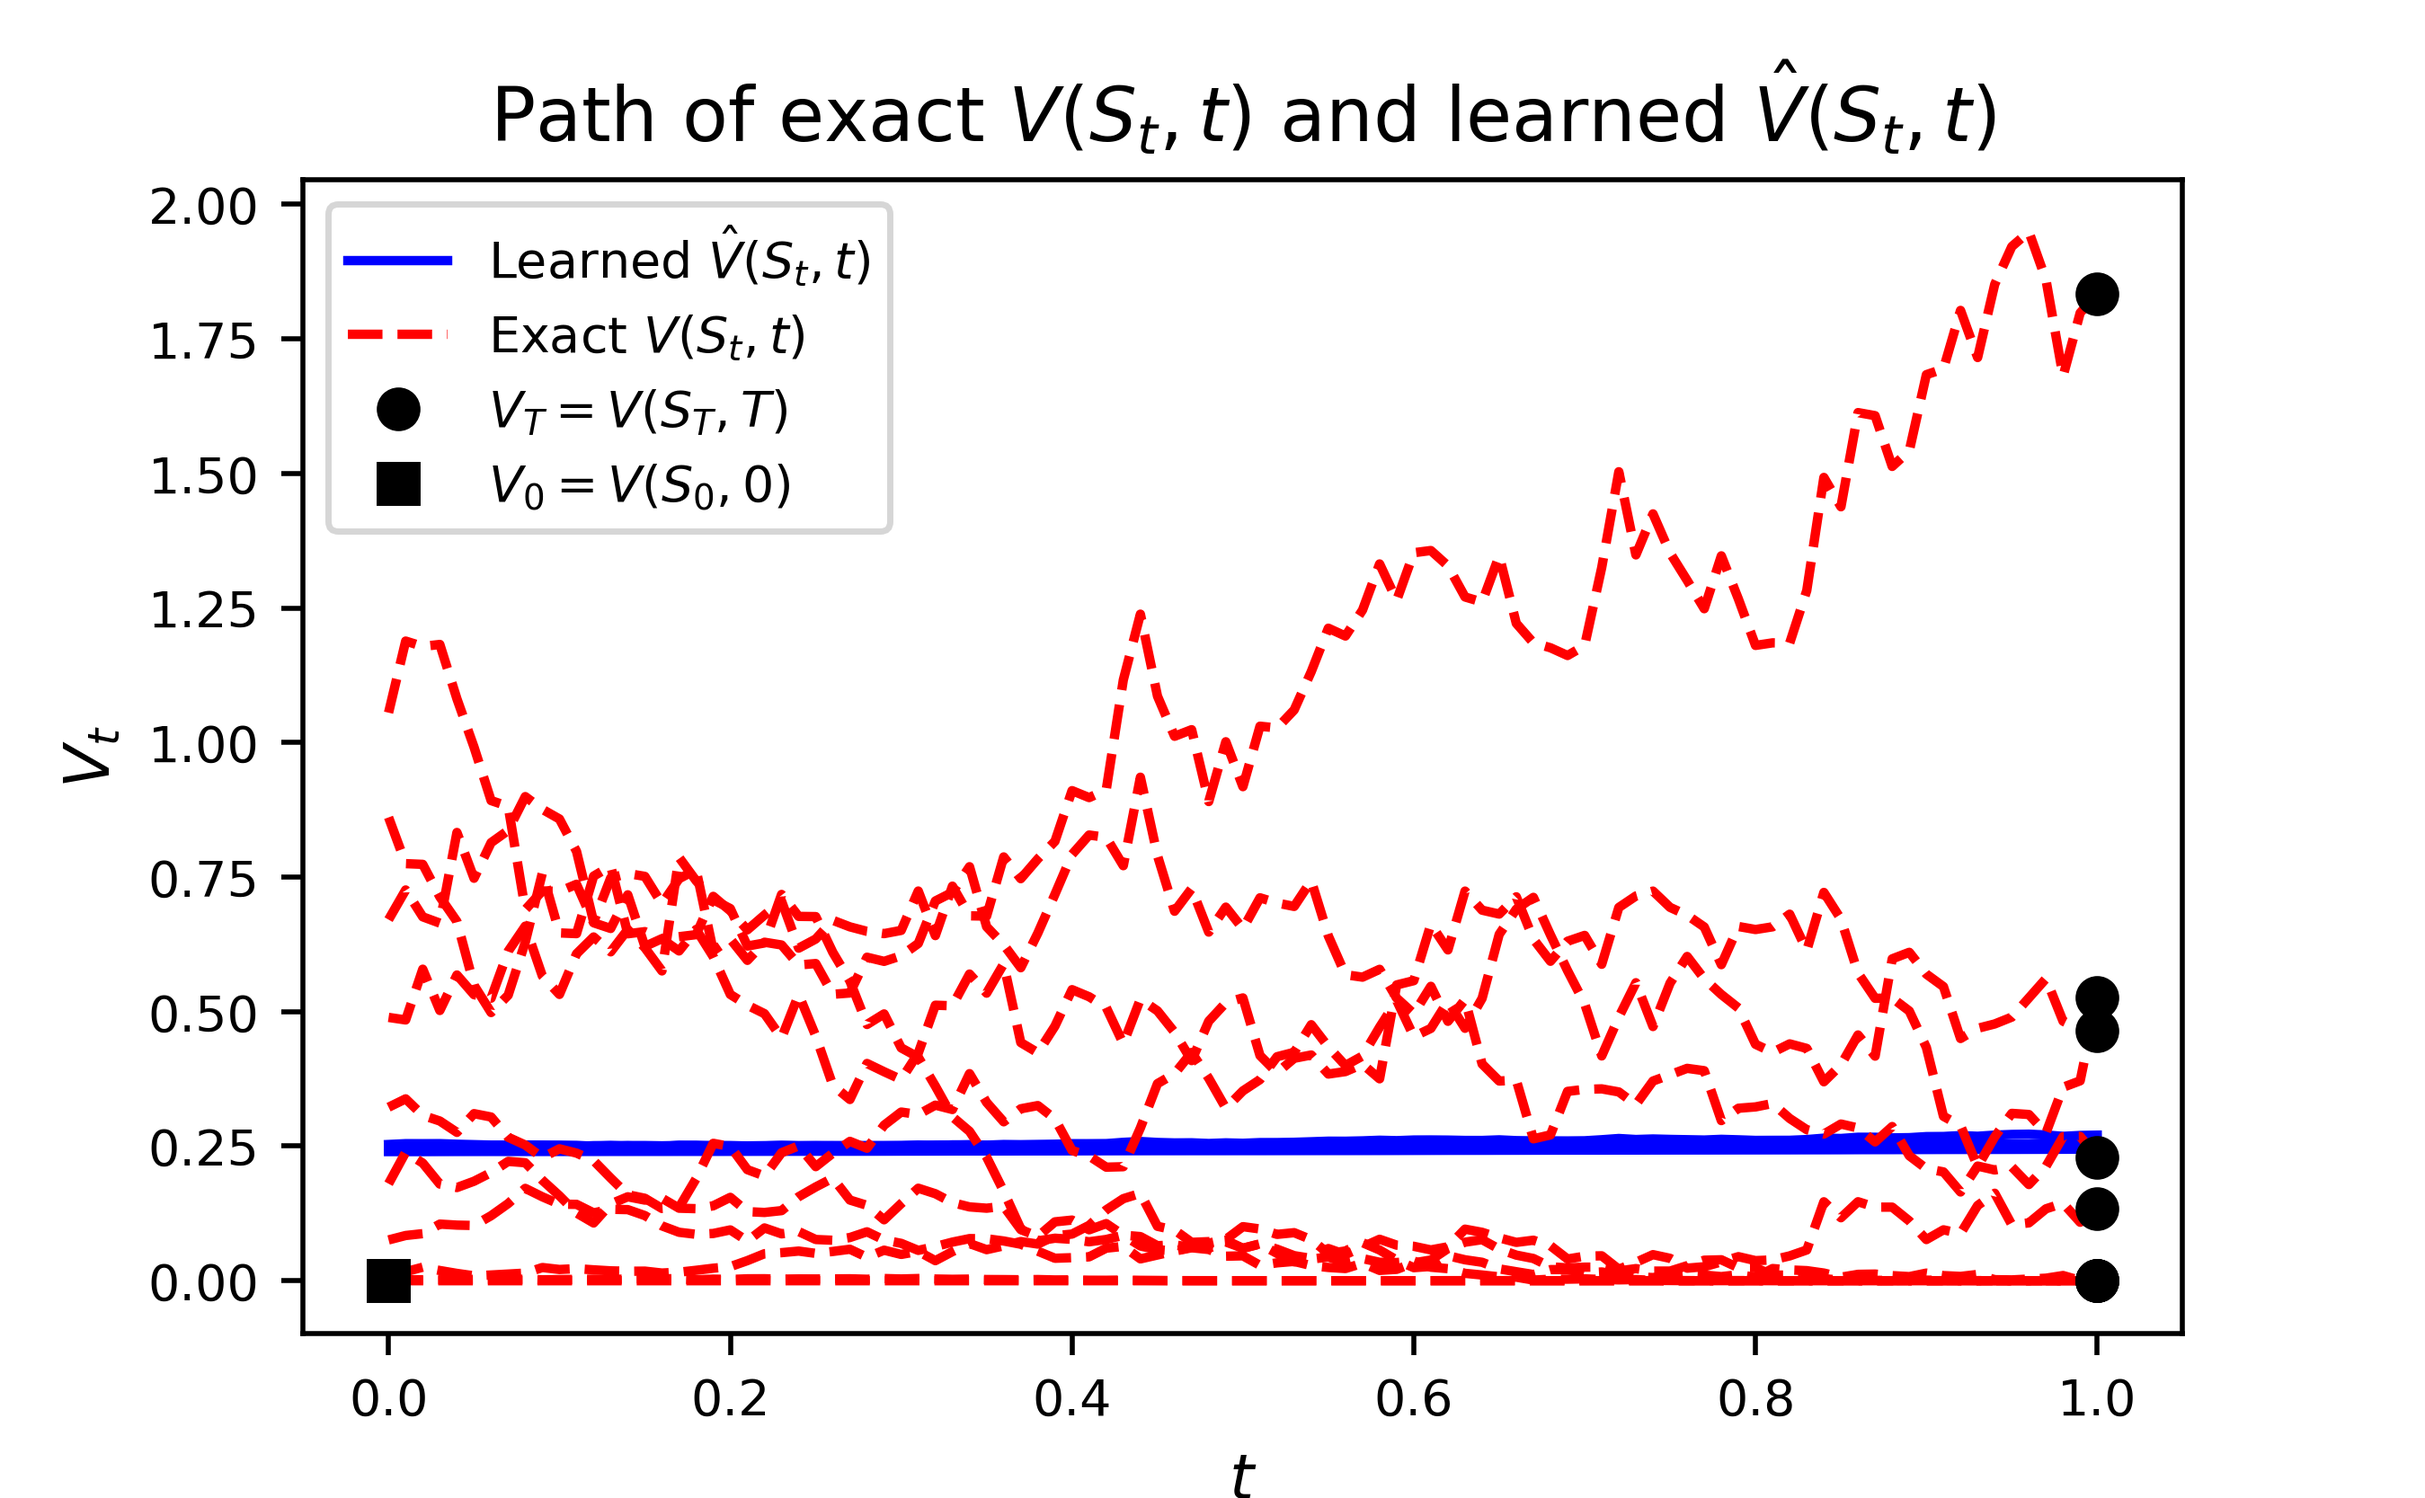
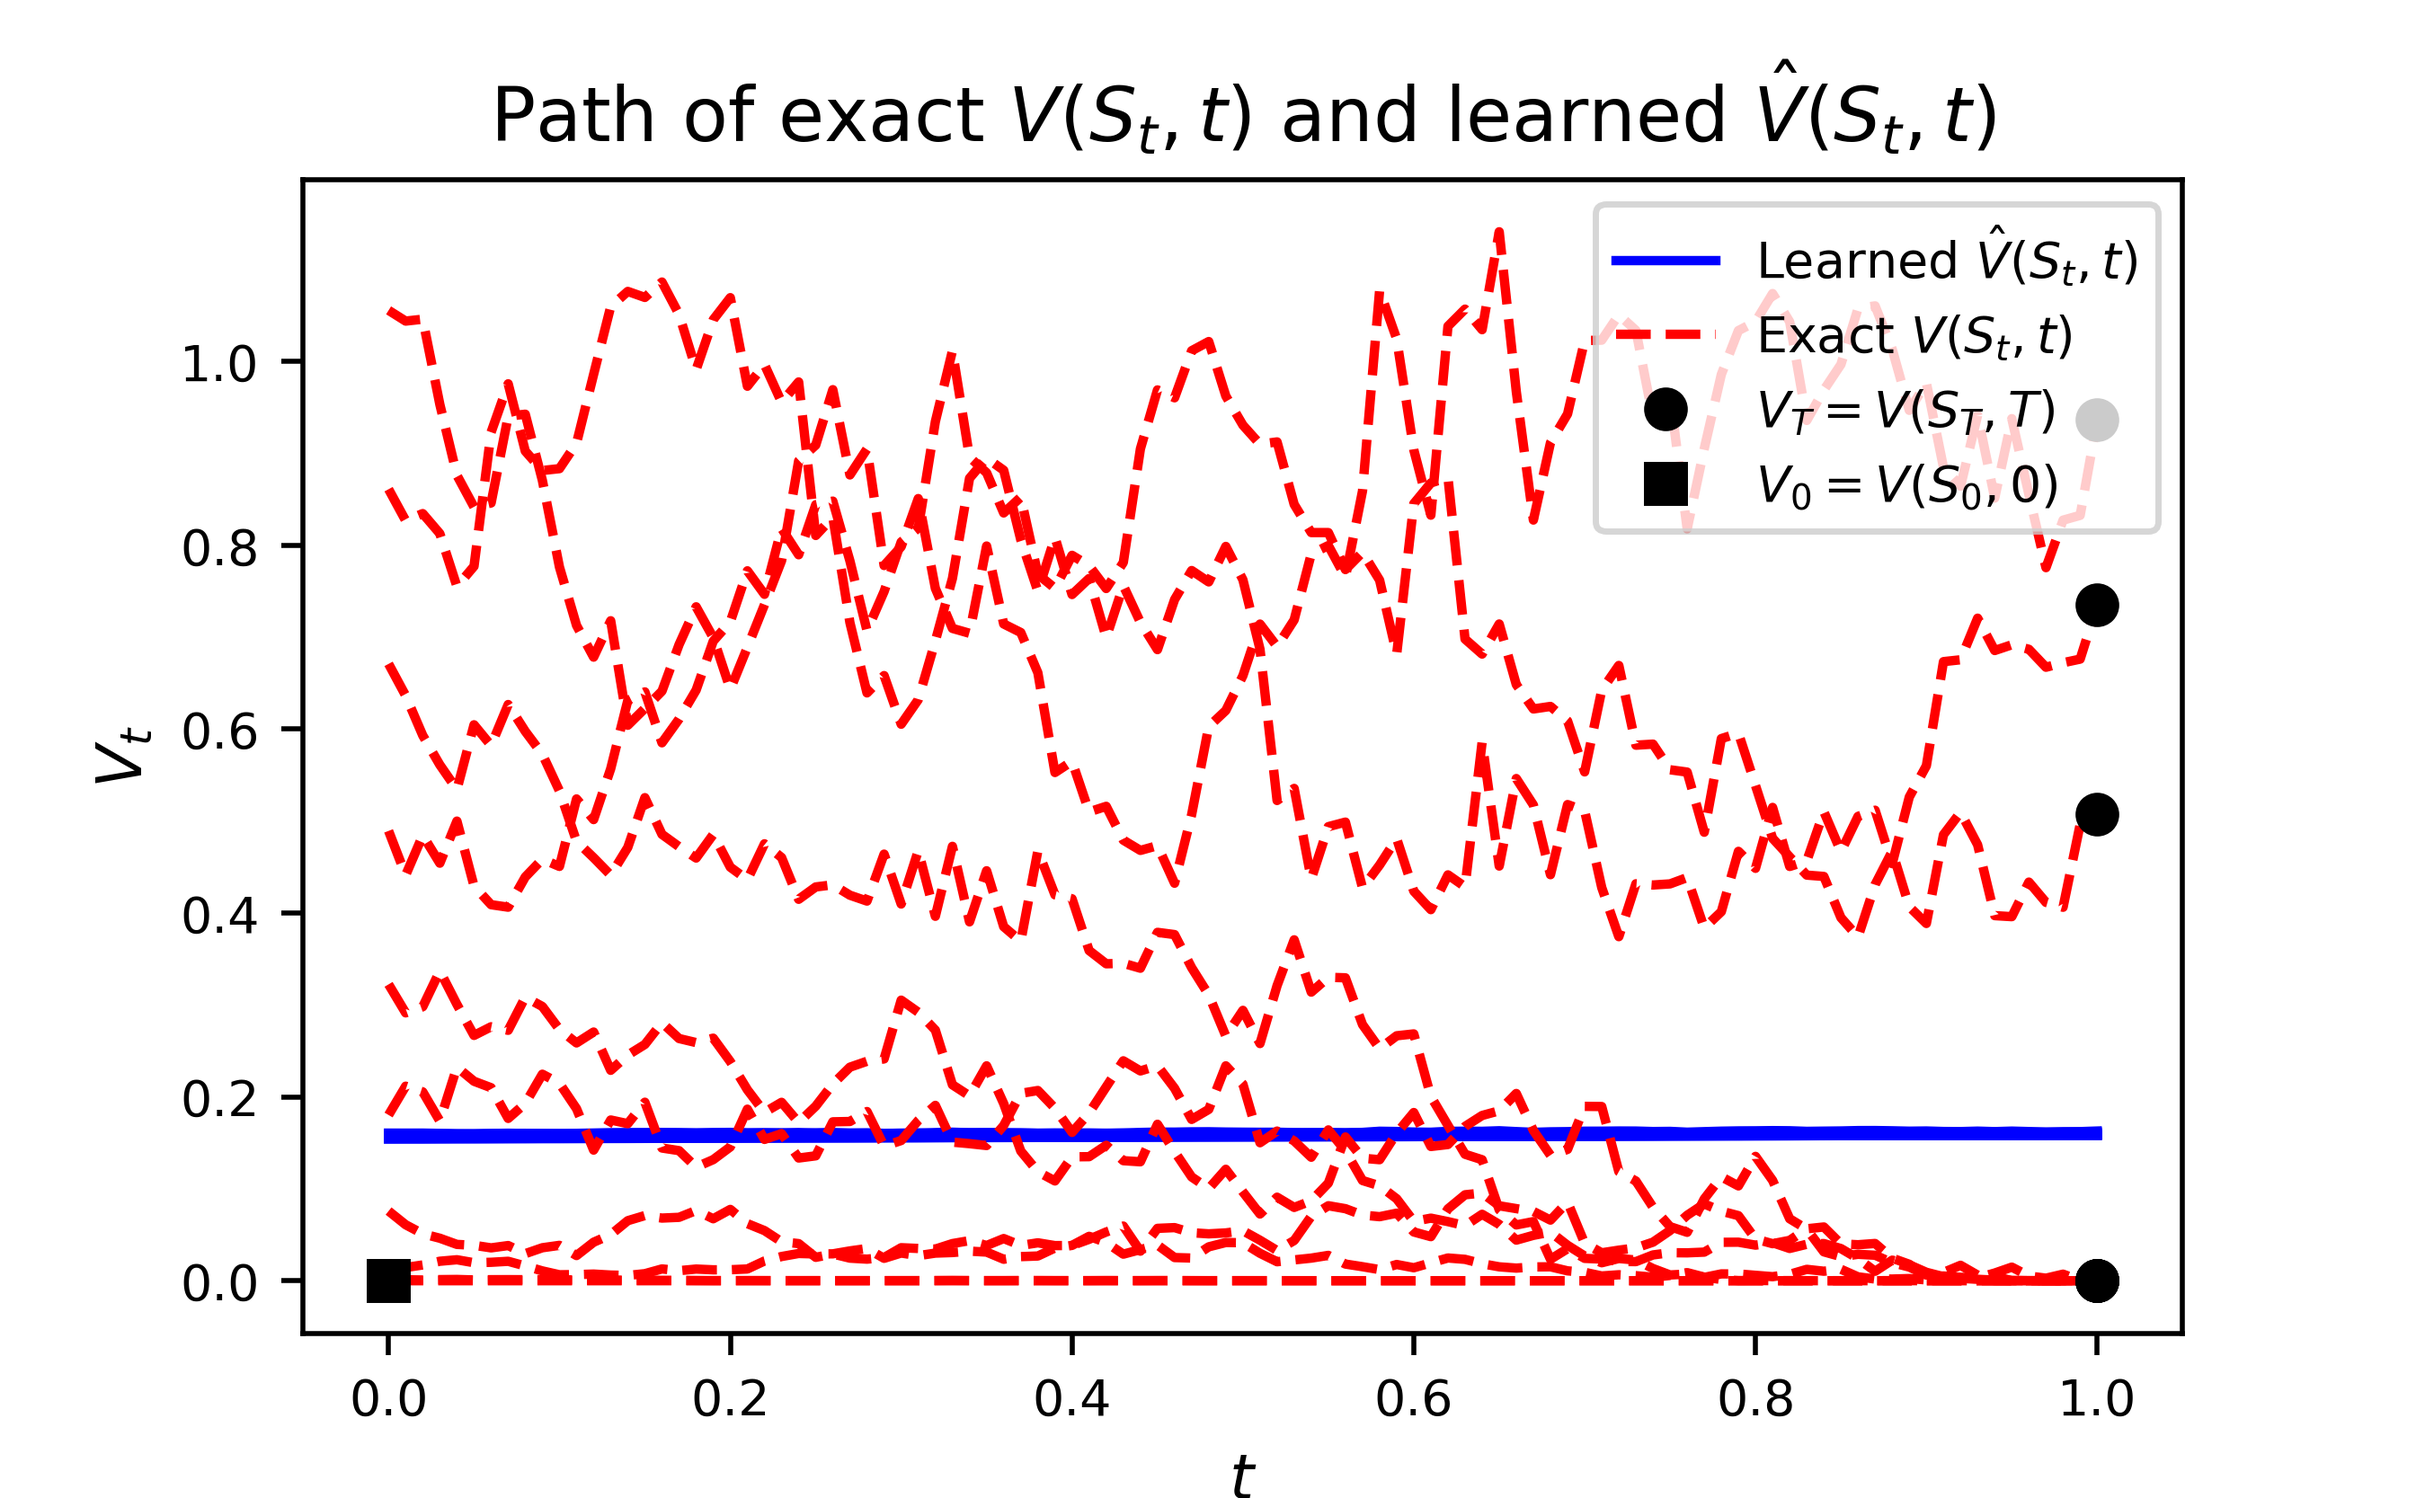
get the hessian right to multi-dimensional case

diff --git a/FBSNN_pytorch_modified_basket.py b/FBSNN_pytorch_modified_basket.py
@@ -65,8 +65,17 @@ class FBSNN(nn.Module):  # Forward-Backward Stochastic Neural Network
                     var_cov_mat[i, j] = rho * sigma[i] * sigma[j]
         var_cov_mat = torch.tensor(var_cov_mat)
         self.var_cov_mat = var_cov_mat
-    def phi_torch(self, t, X, Y, Z):  # M x 1, M x D, M x 1, M x D
-        return 0.05 * (Y - torch.sum(X * Z, dim=1).unsqueeze(-1))  # M x 1
+    def phi_torch(self, t, X, DuDt,DuDx,D2uDx2):  # M x 1, M x D, M x 1, M x D
+
+
+        print(DuDt.shape)
+
+        return   # M x 1
+
+
+
+
+
 
     def g_torch(self, X):  # M x D
         # terminal condition
@@ -78,7 +87,7 @@ class FBSNN(nn.Module):  # Forward-Backward Stochastic Neural Network
         # print(res)
         return torch.clamp(res-self.K,min = 0).unsqueeze(-1) # M x 1
 
-    def mu_torch(self, t, X, Y, Z):  # M x 1, M x D, M x 1, M x D
+    def mu_torch(self, t, X, Y):  # M x 1, M x D, M x 1, M x D
         # return torch.zeros([self.M, self.D])  # M x D
         return torch.ones([self.M, self.D]) * torch.tensor(self.mu)
 
@@ -95,29 +104,25 @@ class FBSNN(nn.Module):  # Forward-Backward Stochastic Neural Network
         return  res  # M x D x D
 
     def net_u_Du(self, t, X):  # M x 1, M x D
-        inputs = torch.cat([t, X], dim=1)
-
-        u = self.fn_u(inputs)
 
 
+        inputs = torch.cat([t, X], dim=1) #M x (D+1）
 
-        DuDx = torch.autograd.grad(u, X, retain_graph=True,create_graph=True)[0]
-        print(DuDx.shape)
 
-        # print(DuDx.shape)
+        u = self.fn_u(inputs) # M x 1
 
-        DuDt = torch.autograd.grad(u, t, retain_graph=True,create_graph=True)[0]
+        DuDt = torch.autograd.grad(torch.sum(u), t, retain_graph=True,create_graph=True)[0]  # M x 1
+        DuDx = torch.autograd.grad(torch.sum(u), X, retain_graph=True,create_graph=True)[0]  # M x D
 
-        D2uDx2 = torch.autograd.grad(torch.sum(DuDx), X, retain_graph=True,create_graph=True)[0]
-        print(D2uDx2)
-        D2uDxixj = []
 
-        for i in range(DuDx.shape[1]):  # D
-            # print("1")
-            # print(torch.autograd.grad(DuDx[:, i], X, retain_graph=True, create_graph=True)[0])
-            D2uDxixj.append(torch.autograd.grad(DuDx[:, i], X, retain_graph=True, create_graph=True)[0])
-        D2uDxixj = torch.stack(D2uDxixj, dim=1)[0]  # M x D x D
-        # print(D2uDxixj)
+        D2uDx2_list = []
+
+        for i in range(self.M):
+            hessian = torch.autograd.functional.hessian(lambda x: self.fn_u(x)[0], inputs[i,:],create_graph=True)
+            D2uDx2_list.append(hessian[1:,1:]) # note that this hessian include time, we exclude the time part here
+
+        D2uDx2 = torch.stack(D2uDx2_list,dim =0)
+
 
         return u, DuDx,DuDt,D2uDx2 # M x 1, M x D, M x 1, M x D
 
@@ -150,6 +155,7 @@ class FBSNN(nn.Module):  # Forward-Backward Stochastic Neural Network
         t0 = t[:, 0, :]  # M x 1
         W0 = W[:, 0, :]  # M x D
         X0 = torch.cat([Xi] * self.M)  # M x D
+
         X0.requires_grad = True
         t0.requires_grad = True
         Y0, DuDx0,DuDt0,D2uDx20  = self.net_u_Du(t0, X0)  # M x 1, M x D
@@ -157,40 +163,42 @@ class FBSNN(nn.Module):  # Forward-Backward Stochastic Neural Network
         X_buffer.append(X0)
         Y_buffer.append(Y0)
 
+        X0.requires_grad = True
+
+        t0.requires_grad = True
+
         for n in range(0, self.N):
             t1 = t[:, n + 1, :]
             W1 = W[:, n + 1, :]
 
             if self.gbm_scheme==0:
-                X1 = X0 + self.mu_torch(t0, X0, Y0, Z0) * (t1 - t0)*X0 + torch.matmul(self.sigma_torch(t0, X0, Y0),
+                X1 = X0 + self.mu_torch(t0, X0, Y0) * (t1 - t0)*X0 + torch.matmul(self.sigma_torch(t0, X0, Y0),
                                                                                    (W1 - W0).unsqueeze(
                                                                                        -1)).squeeze(2)*X0 # M x D
             elif self.gbm_scheme ==1:
-                X1 = X0*torch.exp(self.mu_torch(t0, X0, Y0, Z0) * (t1 - t0) - 0.5*torch.tensor(self.sigma)**2*(t1-t0)+torch.matmul(self.sigma_torch(t0, X0, Y0),
+                X1 = X0*torch.exp(self.mu_torch(t0, X0, Y0) * (t1 - t0) - 0.5*torch.tensor(self.sigma)**2*(t1-t0)+torch.matmul(self.sigma_torch(t0, X0, Y0),
                                                                                    (W1 - W0).unsqueeze(
                                                                                        -1)).squeeze(2)) # not sure if this is right
 
-            # print(self.sigma_torch(t0, X0, Y0).shape)
-            # print((W1 - W0).unsqueeze(-1).shape)
 
-            Y1_tilde = Y0 + self.phi_torch(t0, X0, Y0, Z0) * (t1 - t0) + torch.sum(
-                Z0 * torch.matmul(self.sigma_torch(t0, X0, Y0), (W1 - W0).unsqueeze(-1)).squeeze(2), dim=1).unsqueeze(1)
+            Y1_tilde = Y0 + self.phi_torch(t0, X0,DuDt0,DuDx0,D2uDx20) * (t1 - t0) + torch.sum(
+                Y0 * torch.matmul(self.sigma_torch(t0, X0, Y0), (W1 - W0).unsqueeze(-1)).squeeze(2), dim=1).unsqueeze(1)
 
-            Y1, DuDx1,DuDt1,D2uDx21  = self.net_u_Du(t1, X1)
-            loss = loss + torch.sum((Y1 - Y1_tilde) ** 2)
-
+        #    Y1, DuDx1,DuDt1,D2uDx21  = self.net_u_Du(t1, X1)
+        #     loss = loss + torch.sum((Y1 - Y1_tilde) ** 2)
+        #
             t0 = t1
             W0 = W1
             X0 = X1
             Y0 = Y1
-            Z0 = Z1
-
+        #
+        #
             X_buffer.append(X0)
             Y_buffer.append(Y0)
-
-
-        loss = loss + torch.sum((Y1 - self.g_torch(X1)) ** 2)
-        loss = loss + torch.sum((Z1 - self.Dg_torch(X1)) ** 2)
+        #
+        #
+        # loss = loss + torch.sum((Y1 - self.g_torch(X1)) ** 2)
+        # loss = loss + torch.sum((Z1 - self.Dg_torch(X1)) ** 2)
 
         X = torch.stack(X_buffer, dim=1)  # M x N x D
         Y = torch.stack(Y_buffer, dim=1)  # M x N x 1
@@ -236,7 +244,7 @@ if __name__ == '__main__':
     sigma = [.10, .11, .12, .13, .14, .14, .13, .12, .11, .10]
     rho = 0.1  # Correlation between Brownian Motions
     T = 1  # Time to Maturity
-    N_STEPS, N_PATHS = 1, 1
+    N_STEPS, N_PATHS = 1, 3
     var_cov_mat = np.zeros((D, D))
     M = N_PATHS  # Number of paths
     N = N_STEPS  # Number of time steps

diff --git a/FBSNN_pytorch_modified_black_sholes.py b/FBSNN_pytorch_modified_black_sholes.py
@@ -150,6 +150,7 @@ class FBSNN(nn.Module):  # Forward-Backward Stochastic Neural Network
         u = self.fn_u(inputs)
 
 
+
         DuDx = torch.autograd.grad(torch.sum(u), X, retain_graph=True,create_graph=True)[0]
 
         # print(DuDx.shape)
@@ -181,7 +182,7 @@ class FBSNN(nn.Module):  # Forward-Backward Stochastic Neural Network
 
         return torch.from_numpy(t).float(), torch.from_numpy(W).float()
 
-    def loss_function(self, t, W, Xi):  # M x (N+1) x 1, M x (N+1) x D, 1 x D
+    def loss_function(self, t, W, Xi):  # M x (N+1) x 1, M x (N+1) x D, MxD
         loss = torch.zeros(1)
         X_buffer = []
         Y_buffer = []
